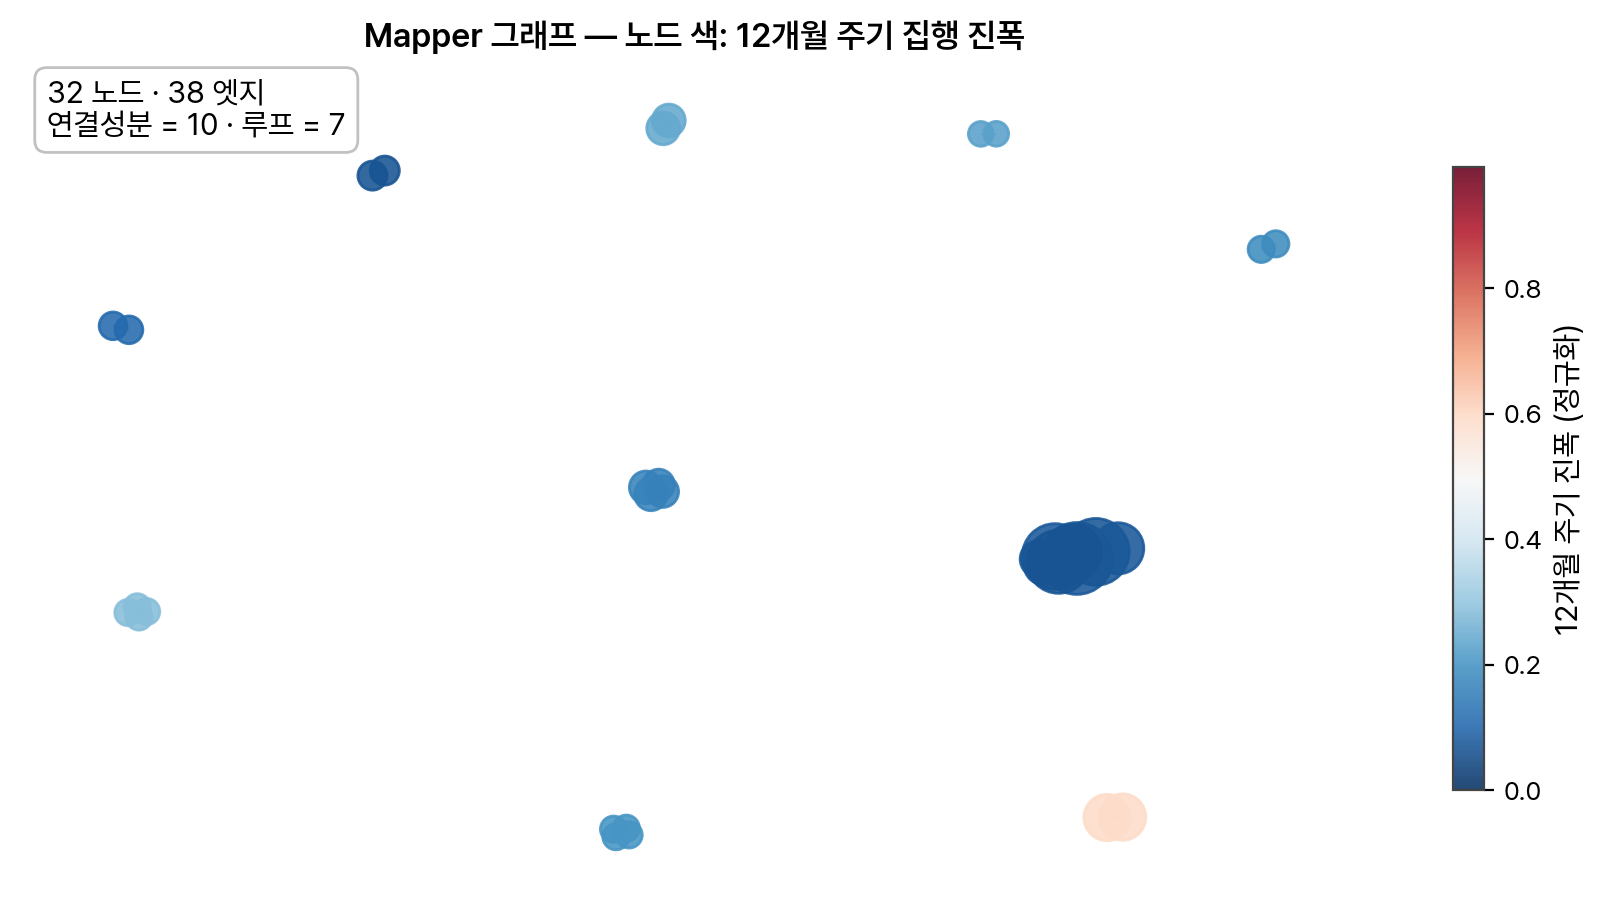
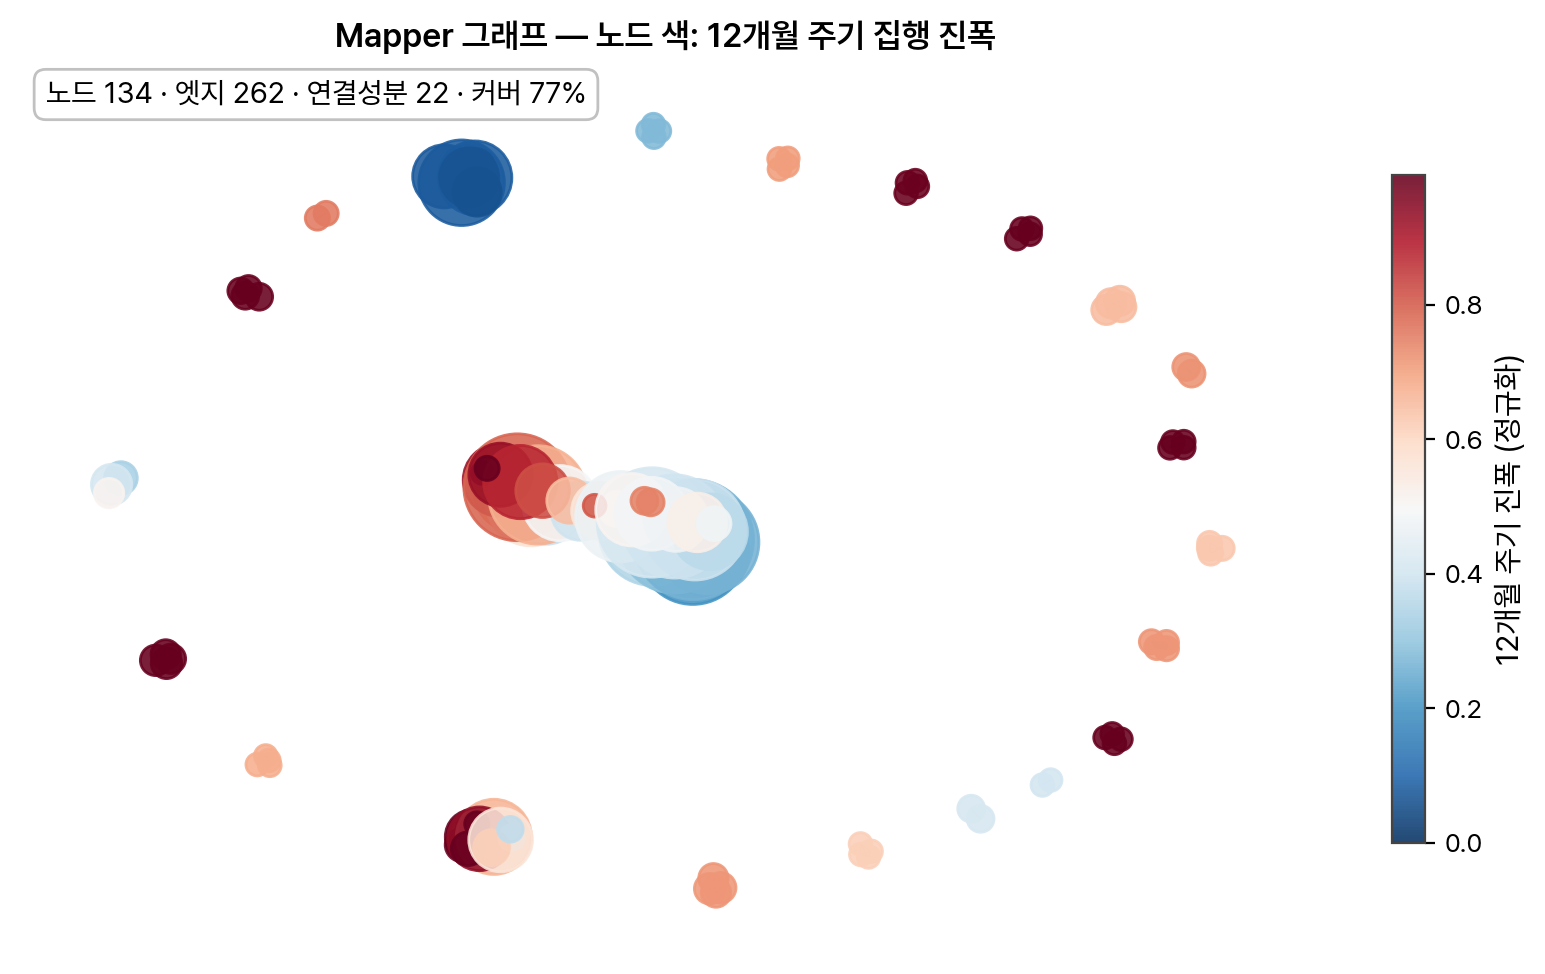
main_v2 부록 그림·캡션 정합성 교정 (conference_v1 수정과 동기)
conference_v1에서 고친 부록 B TDA 그림 결함을 풀버전 main_v2에도 반영.

Mapper (그림 6·7):
- 같은 그래프의 두 패널(amp·cluster)이 cluster만 재생성돼 불일치하던 것을 amp 패널도
  regen_fig06_mapper.py로 동일 신파라미터(eps1.2·ms3·nc15) 재생성해 일치
- 본문·캡션 노드 32·엣지 38·연결성분 10·루프 7 → 노드 134·엣지 262·연결성분 22(커버 77%)
- '연결성분 22가 4개 원형으로 정확 분할(원형 간 엣지 0/262·순도 1.00·ARI 0.85)' 정직 framing 보강

PH (그림 9~11):
- h9_bootstrap 캡션의 Wasserstein 수치 혼재 제거 → H1 최대지속성 분포(중앙값 0.69, CI [0.48,1.19])만 서술
- h9_wasserstein.png를 별도 그림(@fig-ph-wasserstein)으로 신규 삽입, Wasserstein 0.885 vs 1.524 주장을 해당 그림으로 이관
- 본문·기여요약·방법주석의 'p<0.0001'(100회 치환으로 미지지) → '두 분포 범위 겹치지 않음/귀무 100회 중 0회'로 정직화
- β0=30·β1=15를 '강건'이라던 표현 → '개수는 흔들리나 Wasserstein·max persistence CI로 안정성 입증'(본문 논지와 정합)

main_v2 91쪽·깨진참조 0. (조사 '에서'가 라벨에 붙는 typst 함정은 참조를 괄호로 분리해 회피.)

diff --git a/scripts/figures/regen_fig06_mapper.py b/scripts/figures/regen_fig06_mapper.py
@@ -36,6 +36,7 @@ KFONT = mpl.rcParams.get('font.family', 'Malgun Gothic')
 ROOT = os.path.dirname(os.path.dirname(os.path.dirname(os.path.abspath(__file__))))
 H3_CSV = os.path.join(ROOT, 'data', 'results', 'H3_activity_embedding_11y.csv')
 OUT = os.path.join(ROOT, 'paper', 'figures', 'h4_mapper_cluster.png')
+OUT_AMP = os.path.join(ROOT, 'paper', 'figures', 'h4_mapper_amp.png')  # main_v2 동일그래프 진폭 색칠 패널
 HWP = os.path.join(ROOT, 'paper', '_hwp_이식', 'figures', 'fig06_mapper.png')
 
 CLU_LABEL = {0: '인건비형 (n=129)', 1: '자산취득형 (n=99)',
@@ -55,13 +56,14 @@ graph = mapper.map(
 )
 
 G = nx.Graph()
-dom = {}; size = {}; members = {}
+dom = {}; size = {}; members = {}; amp = {}
 for nid, mem in graph['nodes'].items():
     sub = df.iloc[mem]
     G.add_node(nid)
     dom[nid] = int(sub['cluster'].value_counts().index[0])
     size[nid] = len(mem)
     members[nid] = list(mem)
+    amp[nid] = float(sub['amp_12m_norm'].mean())
 for nid, nbs in graph['links'].items():
     for nb in nbs:
         G.add_edge(nid, nb)
@@ -97,6 +99,28 @@ sizes_arr = np.array([size[n] for n in G.nodes()])
 xs = np.array([pos[n][0] for n in G.nodes()])
 ys = np.array([pos[n][1] for n in G.nodes()])
 xpad = 0.08 * (xs.max() - xs.min()); ypad = 0.08 * (ys.max() - ys.min())
+
+# ── 패널 A (main_v2 전용): 동일 그래프, 노드 색 = 평균 12개월 진폭
+figa, axa = plt.subplots(figsize=(8.4, 5.0))
+amp_colors = np.array([amp[n] for n in G.nodes()])
+nx.draw_networkx_edges(G, pos, alpha=0.28, width=0.6, ax=axa)
+sca = nx.draw_networkx_nodes(G, pos, node_size=40 + 9 * sizes_arr,
+                             node_color=amp_colors, cmap='RdBu_r',
+                             vmin=0, vmax=float(df['amp_12m_norm'].quantile(0.9)),
+                             alpha=0.88, ax=axa)
+axa.set_xlim(xs.min() - xpad, xs.max() + xpad)
+axa.set_ylim(ys.min() - ypad, ys.max() + ypad)
+axa.axis('off')
+figa.colorbar(sca, ax=axa, label='12개월 주기 진폭 (정규화)', shrink=0.75)
+axa.text(0.02, 0.98,
+         f'노드 {G.number_of_nodes()} · 엣지 {G.number_of_edges()} · 연결성분 {n_comp} · 커버 {cov_pct:.0f}%',
+         transform=axa.transAxes, va='top', fontsize=10.5,
+         bbox=dict(boxstyle='round,pad=0.4', fc='white', ec='#bbb', alpha=0.9))
+axa.set_title('Mapper 그래프 — 노드 색: 12개월 주기 집행 진폭', fontsize=12)
+plt.tight_layout()
+figa.savefig(OUT_AMP, dpi=200, bbox_inches='tight')
+plt.close(figa)
+print(f'저장: {OUT_AMP}  {Image.open(OUT_AMP).size[0]}x{Image.open(OUT_AMP).size[1]}')
 
 fig, ax = plt.subplots(figsize=(8.4, 5.0))
 palette = plt.get_cmap('tab10')
